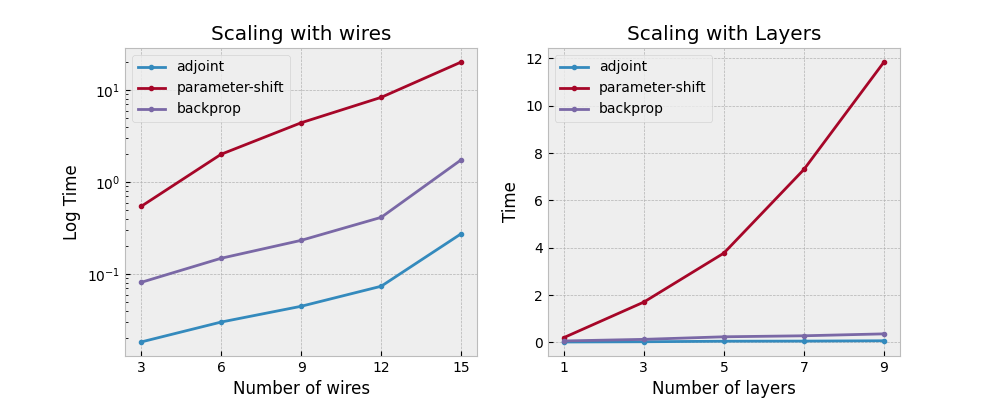
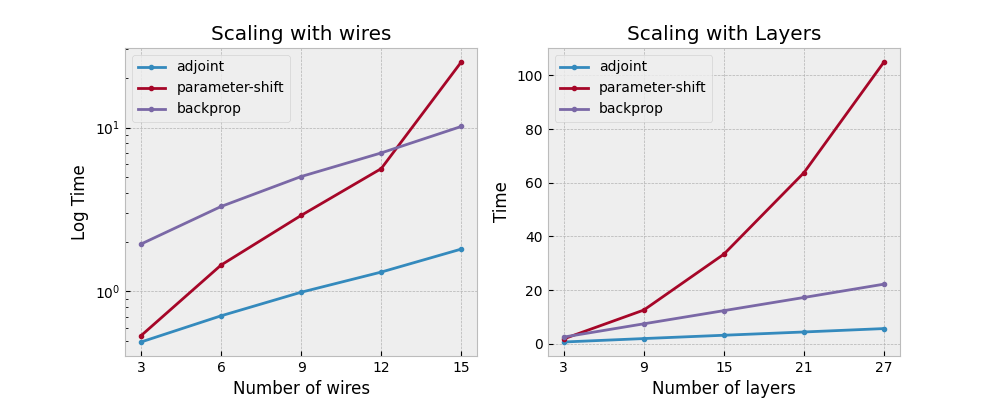
Update script and benchmarking plot for adjoint diff demo

diff --git a/demonstrations/adjoint_diff_benchmarking.py b/demonstrations/adjoint_diff_benchmarking.py
@@ -10,7 +10,7 @@ Adjoint Differentiation
     :property="og:image": https://pennylane.ai/qml/_static/thumbs/code.png
 
 
-*Author: Christina Lee — Posted: 23 November 2021. Last updated: 23 November 2021.*
+*Author: Christina Lee — Posted: 23 November 2021. Last updated: 04 July 2024.*
 
 """
 
@@ -98,13 +98,14 @@ def layers_scaling(n_wires, n_layers):
 
 
 if __name__ == "__main__":
-    layers_list = [1, 3, 5, 7, 9]
-    n_wires = 5
-    adjoint_layers, backprop_layers, ps_layers = layers_scaling(n_wires, layers_list)
 
     wires_list = [3, 6, 9, 12, 15]
-    n_layers = 3
+    n_layers = 6
     adjoint_wires, backprop_wires, ps_wires = wires_scaling(wires_list, n_layers)
+
+    layers_list = [3, 9, 15, 21, 27]
+    n_wires = 12
+    adjoint_layers, backprop_layers, ps_layers = layers_scaling(n_wires, layers_list)
 
     # Generating the graphic
     fig, (ax1, ax2) = plt.subplots(1, 2, figsize=(10, 4))
@@ -132,7 +133,7 @@ if __name__ == "__main__":
     ax2.set_ylabel("Time")
     ax2.set_title("Scaling with Layers")
 
-    plt.savefig("adjoint_diff/scaling.png")
+    plt.savefig("scaling.png")
 
 ##############################################################################
 #
